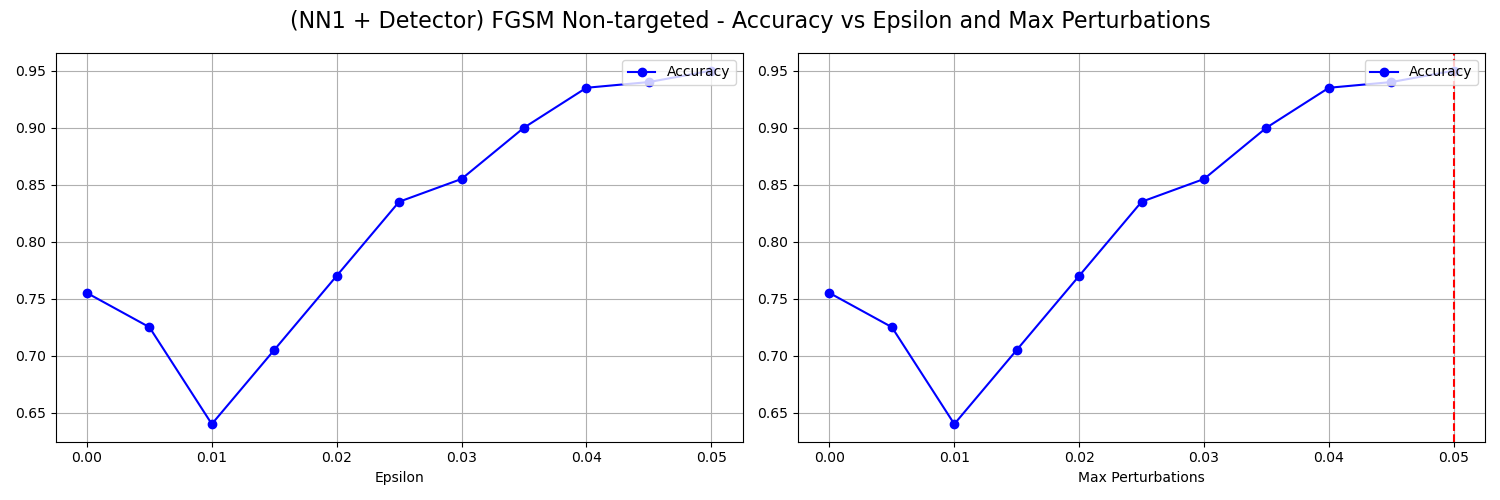
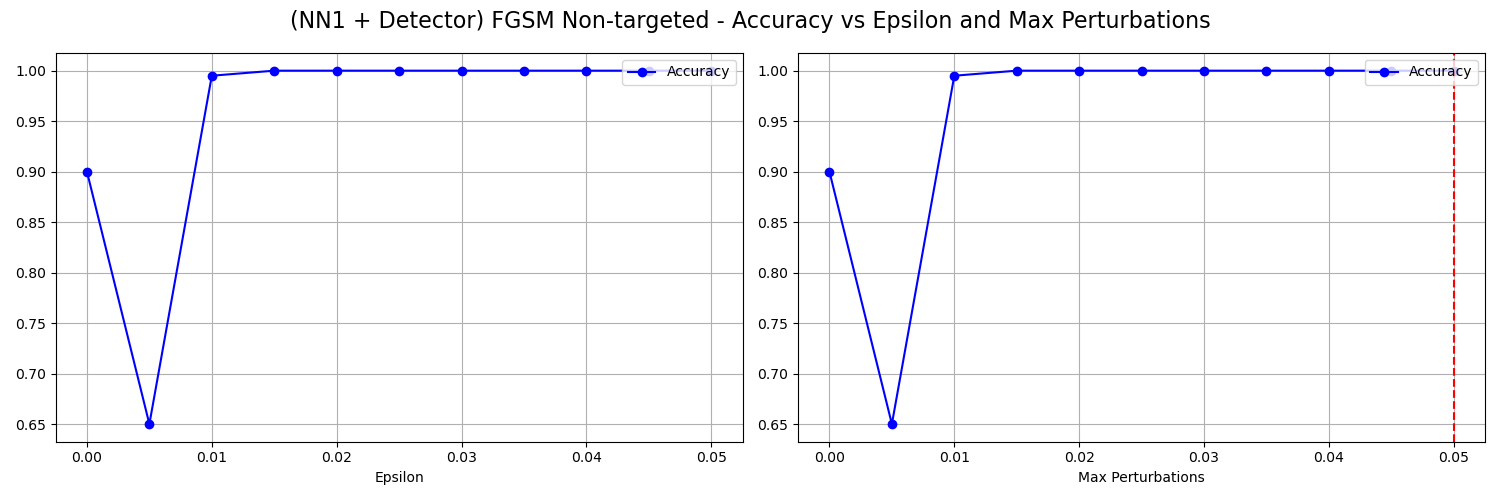
detector2.0

diff --git a/security_evaluation_curve.py b/security_evaluation_curve.py
@@ -33,7 +33,7 @@ def run_bim(classifierNN1, classifierNN2, test_images, test_labels, accuracy_cle
     attack = BIM(test_images, test_labels, classifierNN1, classifierNN2, detectors)
     
     # Calcolo dell'accuracy al variare di epsilon e della perturbazione massima (con epsilon_step e epsilon_step fissati)
-    epsilon_values = [0.01, 0.02, 0.03, 0.04, 0.05]
+    epsilon_values = [0.005, 0.01, 0.02, 0.03, 0.04, 0.05]
     epsilon_step = [0.005]
     max_iter = [10]
     accuracies, max_perturbations, targeted_accuracy = attack.compute_security_curve(epsilon_values, epsilon_step, max_iter, targeted, target_class)
@@ -82,7 +82,7 @@ def run_bim(classifierNN1, classifierNN2, test_images, test_labels, accuracy_cle
     epsilon = [0.05]
     epsilon_step = [0.005]
     max_iter_values = [1, 3, 5, 7, 10]
-    accuracies, max_perturbations, targeted_accuracy = attack.compute_security_curve(epsilon, epsilon_step_values, max_iter, targeted, target_class)
+    accuracies, max_perturbations, targeted_accuracy = attack.compute_security_curve(epsilon, epsilon_step, max_iter_values, targeted, target_class)
     max_iter_values.insert(0, 0.0)
     max_perturbations.insert(0, 0.0)
     accuracies["nn1"].insert(0, accuracy_clean_nn1)
@@ -104,7 +104,7 @@ def run_pgd(classifierNN1, classifierNN2, test_images, test_labels, accuracy_cle
     attack = PGD(test_images, test_labels, classifierNN1, classifierNN2, detectors)
     
     # Calcolo dell'accuracy al variare di epsilon e della perturbazione massima (con epsilon_step e epsilon_step fissati)
-    epsilon_values = [0.01, 0.02, 0.03, 0.04, 0.05]
+    epsilon_values = [0.005, 0.01, 0.02, 0.03, 0.04, 0.05]
     epsilon_step = [0.005]
     max_iter = [10]
     accuracies, max_perturbations, targeted_accuracy = attack.compute_security_curve(epsilon_values, epsilon_step, max_iter, targeted, target_class)
@@ -153,7 +153,7 @@ def run_pgd(classifierNN1, classifierNN2, test_images, test_labels, accuracy_cle
     epsilon = [0.05]
     epsilon_step = [0.005]
     max_iter_values = [1, 3, 5, 7, 10]
-    accuracies, max_perturbations, targeted_accuracy = attack.compute_security_curve(epsilon, epsilon_step_values, max_iter, targeted, target_class)
+    accuracies, max_perturbations, targeted_accuracy = attack.compute_security_curve(epsilon, epsilon_step, max_iter_values, targeted, target_class)
     max_iter_values.insert(0, 0.0)
     max_perturbations.insert(0, 0.0)
     accuracies["nn1"].insert(0, accuracy_clean_nn1)
@@ -176,7 +176,7 @@ def run_df(classifierNN1, classifierNN2, test_images, test_labels, accuracy_clea
     # Nota: nella libreria ART non è implementata la versione targeted di DeepFool.
     
     # Calcolo dell'accuracy al variare di epsilon e della perturbazione massima (con max_iter fissato)
-    epsilon_values = [0.00, 0.01, 0.02, 0.03, 0.04, 0.05]
+    epsilon_values = [0.005, 0.01, 0.02, 0.03, 0.04, 0.05]
     max_iter = [5]
     accuracies, max_perturbations = attack.compute_security_curve(epsilon_values, max_iter)
     epsilon_values.insert(0, 0.0)
@@ -236,7 +236,7 @@ def run_cw(classifierNN1, classifierNN2, test_images, test_labels, accuracy_clea
     confidence = [0.5]
     max_iter_values = [1, 3, 5, 7, 10]
     learning_rate = [0.01]
-    accuracies, max_perturbations, targeted_accuracy = attack.compute_security_curve(confidence_values, max_iter, learning_rate, targeted, target_class)
+    accuracies, max_perturbations, targeted_accuracy = attack.compute_security_curve(confidence, max_iter_values, learning_rate, targeted, target_class)
     max_iter_values.insert(0, 0.0)
     max_perturbations.insert(0, 0.0)
     accuracies["nn1"].insert(0, accuracy_clean_nn1)
@@ -257,7 +257,7 @@ def run_cw(classifierNN1, classifierNN2, test_images, test_labels, accuracy_clea
     confidence = [0.5]
     max_iter = [5]
     learning_rate_values = [0.001, 0.005, 0.01, 0.05, 0.1]
-    accuracies, max_perturbations, targeted_accuracy = attack.compute_security_curve(confidence_values, max_iter, learning_rate, targeted, target_class)
+    accuracies, max_perturbations, targeted_accuracy = attack.compute_security_curve(confidence, max_iter, learning_rate_values, targeted, target_class)
     learning_rate_values.insert(0, 0.0)
     max_perturbations.insert(0, 0.0)
     accuracies["nn1"].insert(0, accuracy_clean_nn1)

diff --git a/defence.py b/defence.py
@@ -40,7 +40,10 @@ def setup_detector_classifier(device):
     classifier = PyTorchClassifier(
         model=detector,
         loss=torch.nn.CrossEntropyLoss(),
-        optimizer=Adam(detector.parameters(), lr=0.001),
+        optimizer = torch.optim.Adam(
+    filter(lambda p: p.requires_grad, detector.parameters()), 
+    lr=1e-3
+),
         input_shape=(3, 160, 160),
         channels_first=True,
         nb_classes=2,
@@ -111,8 +114,8 @@ def generate_adversarial_examples(classifier, attack_type, x_test):
 def main():
     parser = argparse.ArgumentParser()
     parser.add_argument('--train_detectors', type=bool, default=False, help='Se True, addestra i detector; altrimenti carica i modelli salvati')
-    parser.add_argument('--threshold', type=float, default=0.7, help='Threshold per le rilevazioni dei detector')
-    parser.add_argument("--attack", type=str, default="fgsm", choices=["fgsm", "bim", "pgd", "df", "cw"], help="Type of attack to test")
+    parser.add_argument('--threshold', type=float, default=0.5, help='Threshold per le rilevazioni dei detector')
+    parser.add_argument("--attack", type=str, default="bim", choices=["fgsm", "bim", "pgd", "df", "cw"], help="Type of attack to test")
     parser.add_argument("--targeted", type=bool, default=False, help="Test on targeted attack")
     args = parser.parse_args()
 
@@ -136,7 +139,8 @@ def main():
 
     # Directory per i modelli
     os.makedirs("./models", exist_ok=True)
-    attack_types = {"fgsm", "bim", "pgd", "df", "cw"}
+    #attack_types = {"fgsm", "bim", "pgd", "df", "cw"}
+    attack_types = {"fgsm", "bim", "pgd"}
 
     # Train or load Detectors
     detectors = {}
@@ -156,13 +160,14 @@ def main():
             x_train_detector = np.concatenate((train_images, x_train_adv), axis=0)
             y_train_detector = np.concatenate((np.array([[1, 0]] * nb_train), np.array([[0, 1]] * nb_train)), axis=0)
             detectors[attack_type].fit(x_train_detector, y_train_detector, nb_epochs=20, batch_size=16)
-            
+            detector_classifier.model.eval()
             # Salvataggio dello state_dict del modello
             torch.save(detector_classifier.model.state_dict(), model_path)
             print(f"Detector salvato in: {model_path}")
         else:
             print(f"Caricamento del detector per attack: {attack_type}")
             detector_classifier.model.load_state_dict(torch.load(model_path, map_location=device))
+            detector_classifier.model.eval()
             detectors[attack_type] = BinaryInputDetector(detector_classifier)
             print(f"Detector caricato da: {model_path}")
 

diff --git a/nets.py b/nets.py
@@ -224,18 +224,33 @@ class AdversarialDetector(nn.Module):
         )
 
     def forward(self, x):
-        with torch.no_grad():
-            feats = self.backbone(x)  # [B, 512, 1, 1]
+        feats = self.backbone(x)  # [B, 512, 1, 1]
         feats = feats.view(feats.size(0), -1)
         return self.classifier(feats)
 
 
 def get_detector(device="cpu"):
-    backbone = InceptionResnetV1(pretrained='vggface2', classify=False).eval()
+    # questo è per il fine tuning della rete
+    backbone = InceptionResnetV1(pretrained='vggface2', classify=False)
+
+    # per addestrare la rete da zero
+    #backbone = InceptionResnetV1(classify=False)
+    
+    # Sblocca tutta la backbone
+    for param in backbone.parameters():
+        param.requires_grad = True
+    
+    # fine tuning solo sull'ultimo layer della backbone (lo usiamo solo per la relazione)
+    '''
+    # Sblocca solo gli ultimi blocchi (esempio: block8)
+    for name, param in backbone.named_parameters():
+        if "block8" in name:
+            param.requires_grad = True
+    '''
     backbone.to(device)
     detector = AdversarialDetector(backbone)
     detector.to(device)
-    print("Adversarial Detector con InceptionResnetV1 caricato correttamente")
+    print("Adversarial Detector con parte della backbone sbloccata")
     return detector
 
 if __name__ == "__main__":

diff --git a/attacks.py b/attacks.py
@@ -14,7 +14,7 @@ class AdversarialAttack(ABC):
         self.test_images = test_images
         self.test_labels = test_labels
         self.detectors = detectors
-        self.threshold = 0.7  # Soglia per i detector (default)
+        self.threshold = 0.5  # Soglia per i detector (default)
 
     @abstractmethod
     def generate_attack(self, targeted=False, target_class=0):
